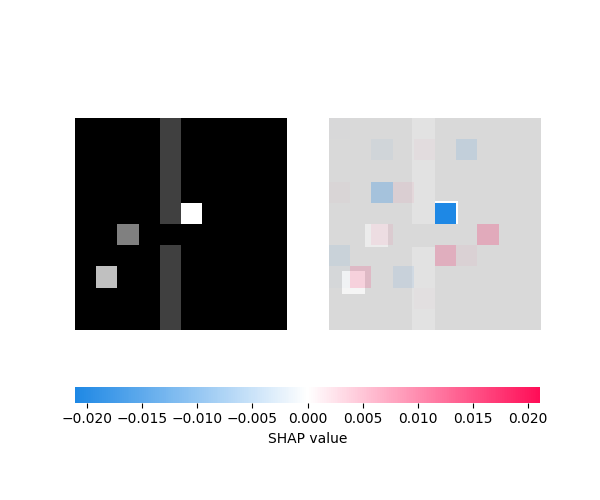
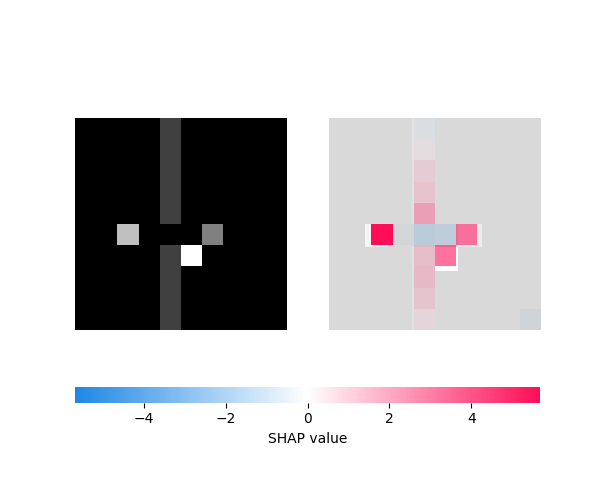
model

diff --git a/gui/src/app.py b/gui/src/app.py
@@ -20,7 +20,7 @@ class App(customtkinter.CTk):
         self.env_handler = EnvHandler(10, 10)
         self.env_handler.generate()
 
-        self.model_handler = ModelHandler("model_20", ["v0", "v1"], shap_samples=10)
+        self.model_handler = ModelHandler("model_6500", ["v40", "v41"], shap_samples=10)
 
         state = np.expand_dims(np.array(self.env_handler.env), axis=0)
         self.model_handler.generate_shap(state)

diff --git a/gui/src/utils/model_handler.py b/gui/src/utils/model_handler.py
@@ -64,7 +64,7 @@ class ModelHandler:
             save_model=False,
             load_model=True,
             gif=False,
-            run_path="eirikreiestad-ntnu/tag-v0-eirik",
+            run_path="eirikreiestad-ntnu/tag-v0-eirre",
             model_artifact=model_artifact,
             version_numbers=version_numbers,
         )

diff --git a/rl/src/dqn/dqn.py b/rl/src/dqn/dqn.py
@@ -46,7 +46,7 @@ class DQN(SingleAgentBase):
         gamma: float = 0.99,
         epsilon_start: float = 1.0,
         epsilon_end: float = 0.05,
-        epsilon_decay: int = 100000,
+        epsilon_decay: int = 1000000,
         slow_decay_point: float = 1,
         slow_decay_factor: float = 1,
         batch_size: int = 64,
